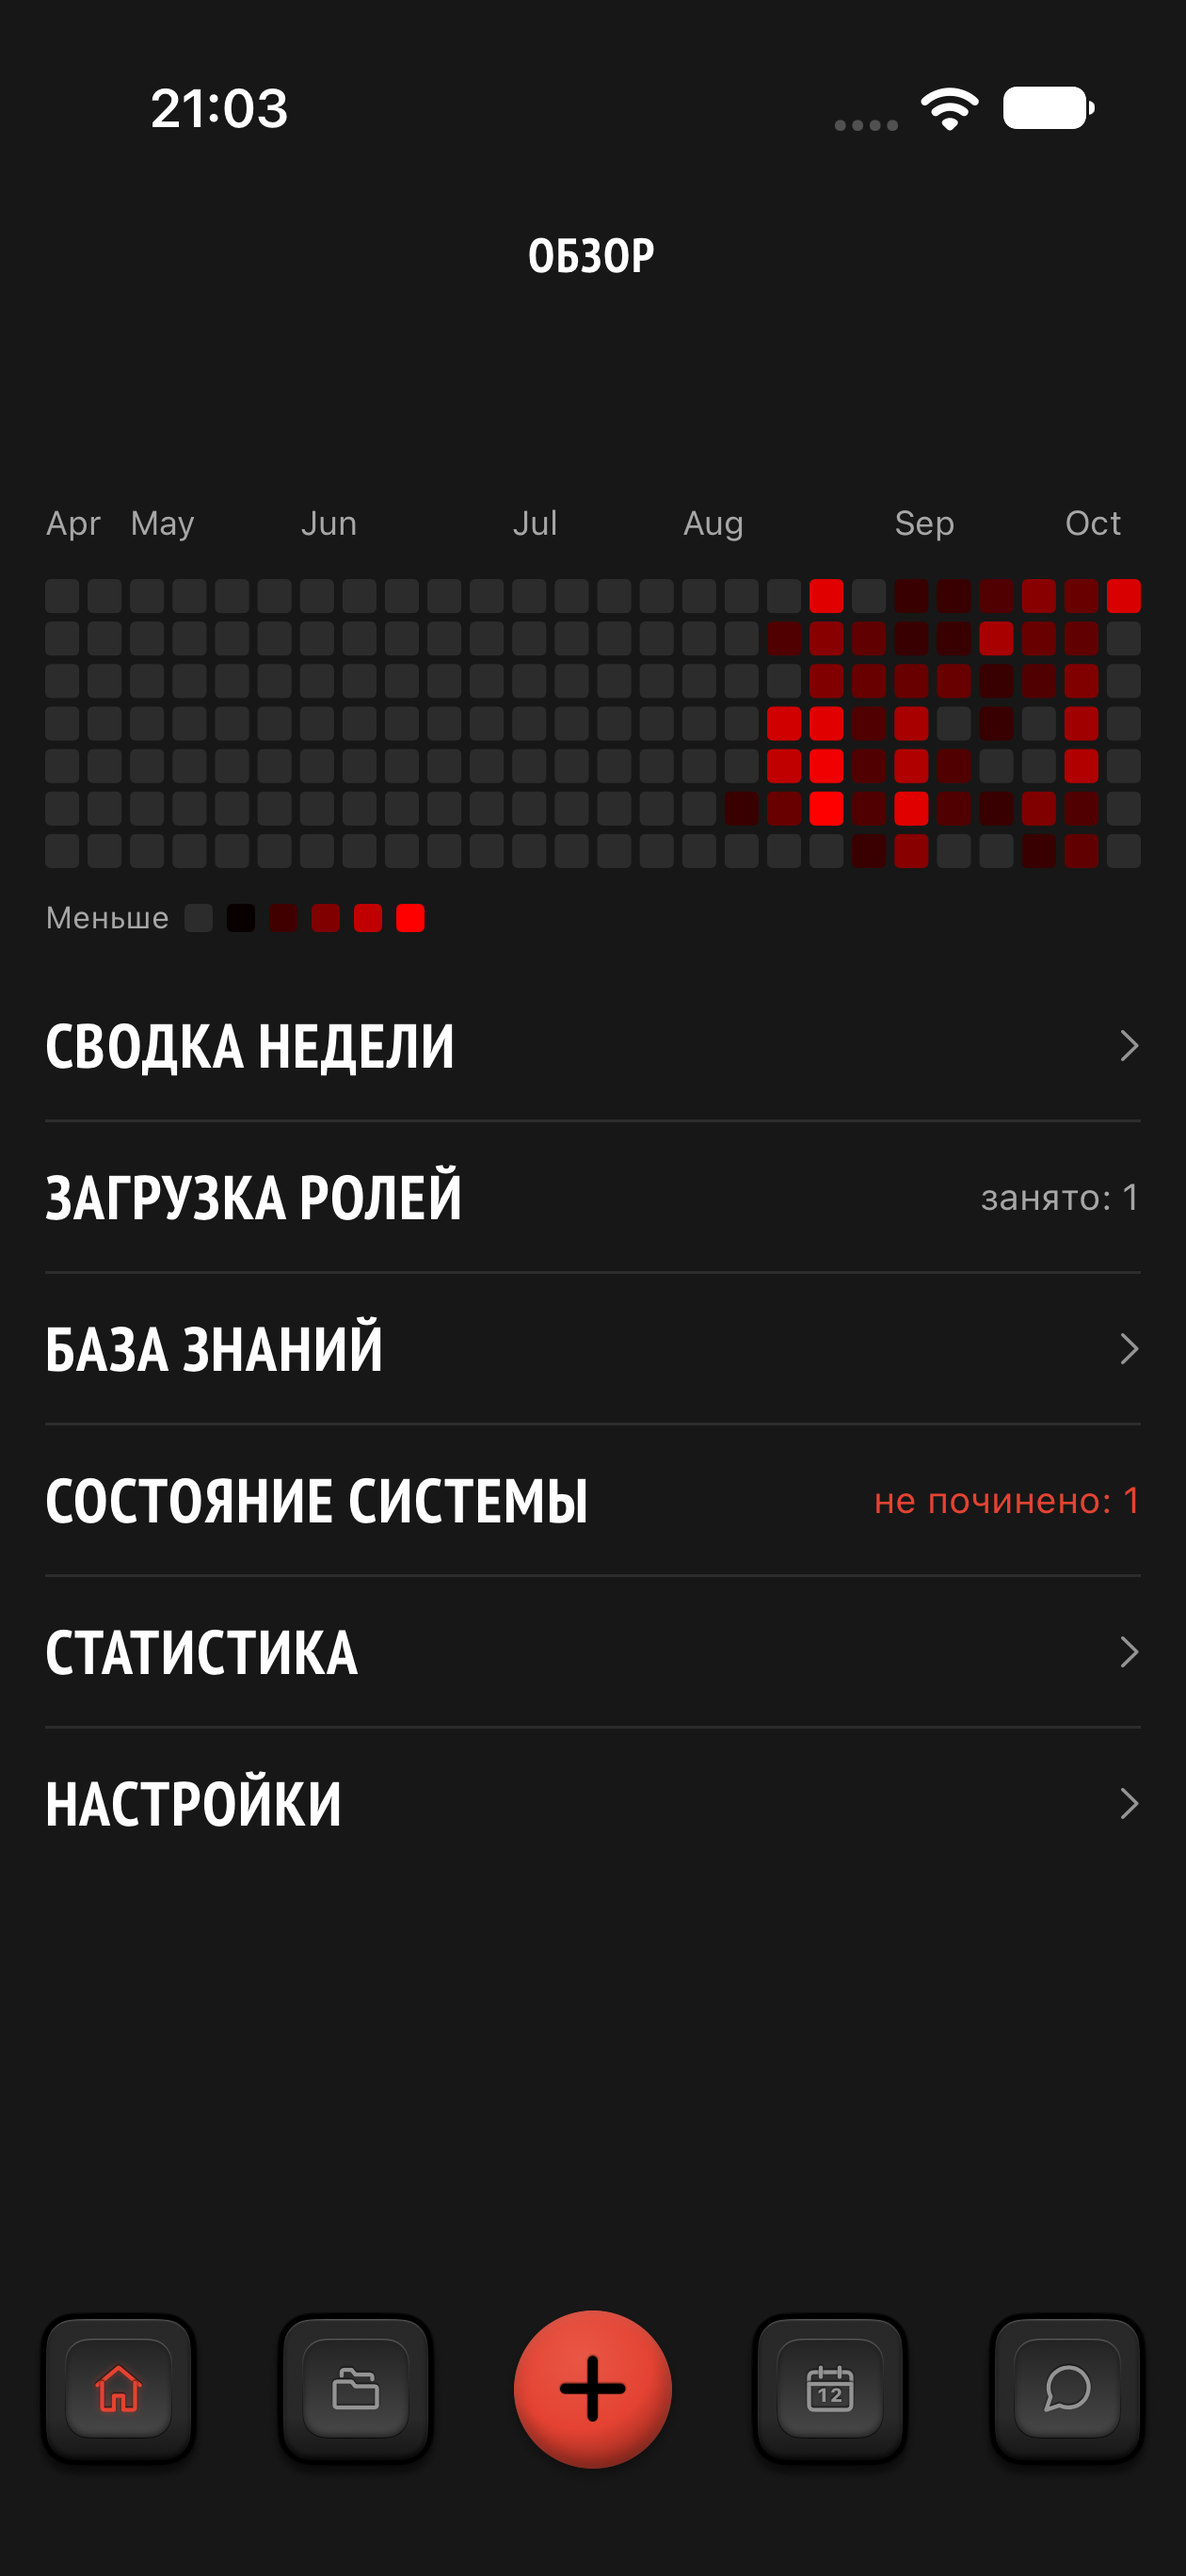
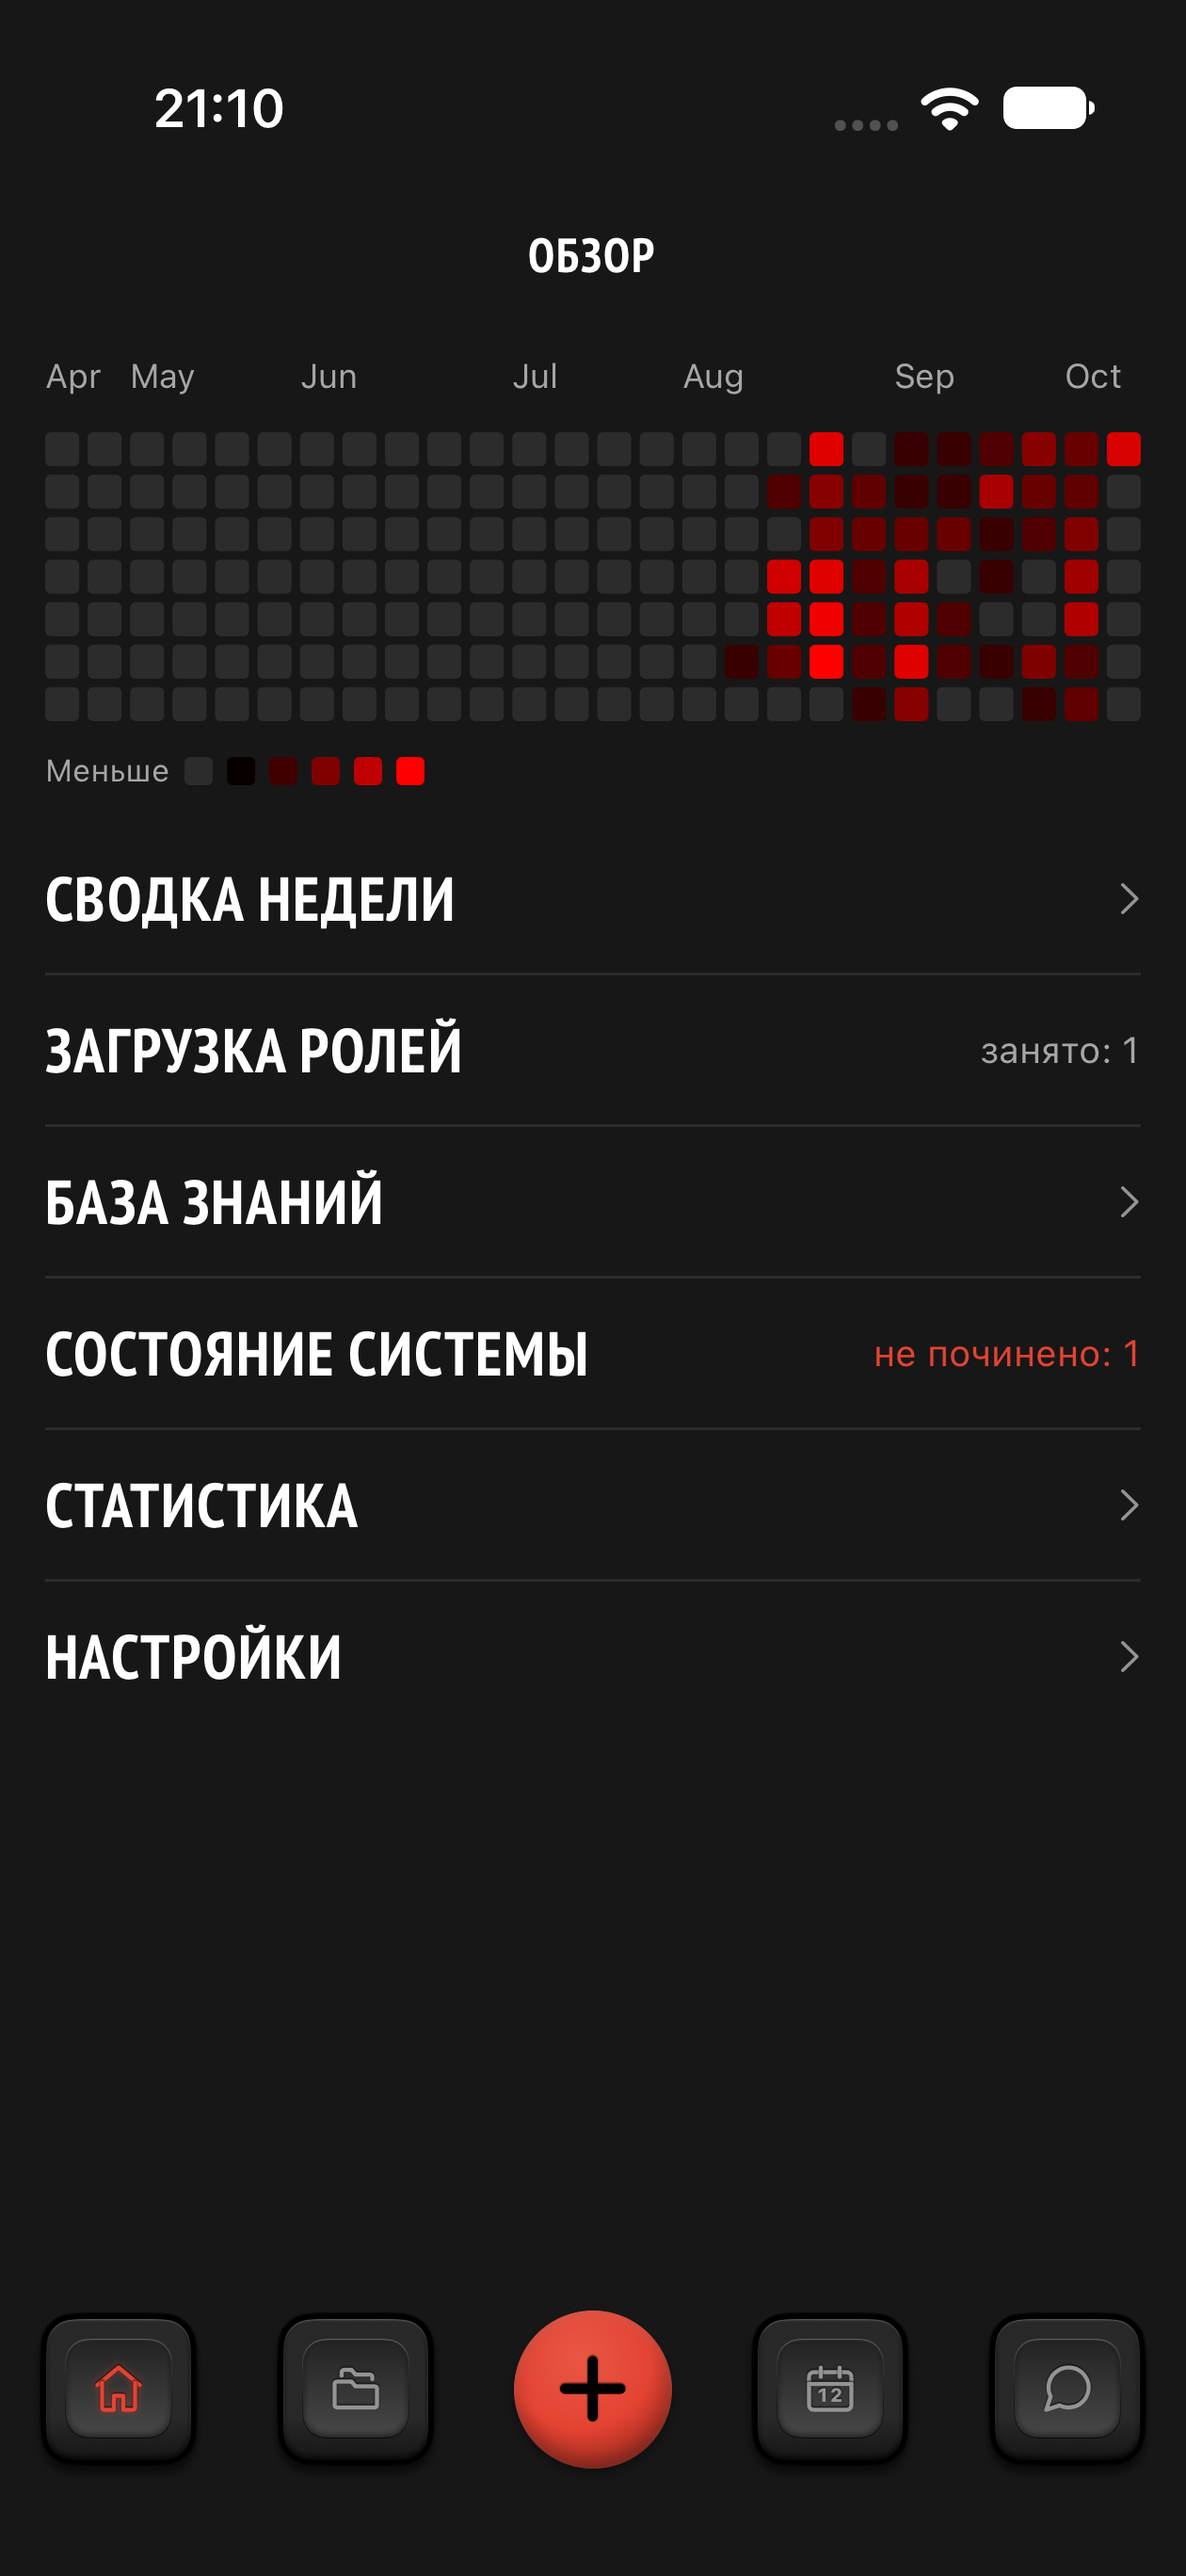
Шапка экранов: убрано пустое место под заголовком
Жалоба владельца 12.10.2026: зазор между «Обзор» и картой, и так по
всему приложению. После перевода заголовка в слот .principal из
tfNativeHeader выпал toolbarTitleDisplayMode — система оставляла место
под большой заголовок. Режим .inline возвращён в общий модификатор.

diff --git a/Sources/DesignSystem/Components/TFNativeHeader.swift b/Sources/DesignSystem/Components/TFNativeHeader.swift
@@ -77,11 +77,14 @@ extension View {
     /// `navigationTitle` рисуется своим системным шрифтом, а атрибуты
     /// `UINavigationBarAppearance` до SwiftUI-заголовка не доходят — подробно
     /// в `TFNavBarTitleFont`. `navigationTitle` остаётся пустым, чтобы не было
-    /// дубля текста; `displayMode` у `.principal` не нужен, параметр оставлен
-    /// для совместимости вызовов и не влияет на отрисовку.
+    /// дубля текста; параметр `displayMode` оставлен для совместимости вызовов
+    /// и не влияет на отрисовку. Режим при этом задаём всегда `.inline`: без
+    /// него система оставляла под шапкой пустое место под большой заголовок —
+    /// зазор на всех экранах (жалоба владельца 12.10.2026).
     func tfNativeHeader(_ title: String, displayMode: ToolbarTitleDisplayMode = .inline) -> some View {
         self
             .navigationTitle("")
+            .toolbarTitleDisplayMode(.inline)
             .toolbar {
                 ToolbarItem(placement: .principal) {
                     TFNavBarTitleFont.title(title)

diff --git a/AGENT-WORK-SCOPES.md b/AGENT-WORK-SCOPES.md
@@ -622,3 +622,4 @@
 | LOCK-NAVBAR-CAPS-20261012 | REVIEW | NAVBAR-CAPS | Заголовки всех экранов капсом тем же шрифтом, по центру | AGENT-WORK-SCOPES.md, Sources/DesignSystem/Components/TFNativeHeader.swift, Sources/App/TaskFlowApp.swift, docs/2026-10-12-navbar-caps.md | Поручение владельца: «все заголовки наверху… тем же шрифтом, все заглавные» | Mavis | Сборка, кадры Обзора/Проектов/Чатов |
 | LOCK-SYSTEM-STATE-20261012 | REVIEW | SYSTEM-STATE | Обзор → «Уведомления» становится «Состояние системы»: первым экраном сводка за сегодня, поток уведомлений — внутри по кнопке; служебные карточки починки на Ганте отдельным цветом | AGENT-WORK-SCOPES.md, Sources/Features/Directory/NotificationsScreen.swift, Sources/Features/Directory/OverviewScreen.swift (только название строки), Sources/Features/Directory/RoleLoadScreen.swift (цвет полосы и расшифровка цветов), Sources/Core/Models/RoleLoad.swift, Sources/Core/Models/SystemState.swift (новый), Sources/Features/Directory/Support/DirectoryAPI.swift, Sources/Features/Directory/Support/ServiceNotificationsClient.swift, docs/2026-10-12-system-state.md, docs/2026-10-12-system-state/ | Поручение владельца 12.10.2026: поломки — уведомления, а не проект; раздел — состояние системы | Claude | Сборка; XCUITest на симуляторе iPhone Air 27.0 (временный тест удалён), кадры summary/feed/gantt-service в docs/2026-10-12-system-state/. Сверх названного владельцем: состояние «исполнитель сдал починку · ждёт приёмки» в строке поломки. Расшифровка цветов на Ганте добавлена по слову владельца, кадр gantt-legend.png (снят на iPhone 18 Pro: Xcode сменил симулятор после xcodegen; возвращён iPhone Air 27.0, лишний выключен). Правка по замечаниям владельца того же дня: цвет строки поломки по состоянию (никого — красный, в работе — зелёный, сдано и ждёт — синий, блок — оранжевый), исполнитель и время в одной строке, раздел «Кто работал» и строка «Все уведомления» убраны, вместо кнопки обновления — меню «…» со «Всеми уведомлениями»; кадры summary.png, menu.png. Не подтверждено кадром: цвет полосы «идёт сейчас» у служебной карточки; зелёный, оранжевый и красный цвета строки поломки (живая поломка была в состоянии «ждёт приёмки») |
 | LOCK-OVERVIEW-ROWS-20261012 | REVIEW | OVERVIEW-ROWS | Обзор → список разделов: без общей подложки, справа живое значение, где значения нет — стрелка | AGENT-WORK-SCOPES.md, Sources/Features/Directory/OverviewScreen.swift, docs/2026-10-12-overview-rows/overview.png | Поручение владельца 12.10.2026: «сделай, как ты сказал, без подложки… стрелка там, где нет значения» | Claude | Сборка; XCUITest на симуляторе iPhone Air 27.0 (временный тест удалён), кадр docs/2026-10-12-overview-rows/overview.png. Значения: «Загрузка ролей» — число занятых ролей, «Состояние системы» — число непочиненных поломок красным. У «Сводки недели» значения нет (стрелка): её запрос может запускать генерацию сводки, на каждый показ «Обзора» его не вешал |
+| LOCK-OVERVIEW-TOP-GAP-20261012 | REVIEW | HEADER-TOP-GAP | Все экраны: убрать пустое место под шапкой (в одном месте — общая шапка) | AGENT-WORK-SCOPES.md, Sources/DesignSystem/Components/TFNativeHeader.swift, docs/2026-10-12-overview-rows/overview.png | Поручение владельца 12.10.2026: «убери этот интервал… между обзором и картой» | Claude | Сборка; XCUITest на симуляторе iPhone Air 27.0 (временный тест удалён), кадр «Обзора» docs/2026-10-12-overview-rows/overview.png: карта поднялась под шапку. Причина: в LOCK-NAVBAR-CAPS из tfNativeHeader выпал toolbarTitleDisplayMode, система резервировала место под большой заголовок. Кадром проверен только «Обзор»; остальные 39 экранов с общей шапкой — тем же модификатором, отдельно не сняты |
